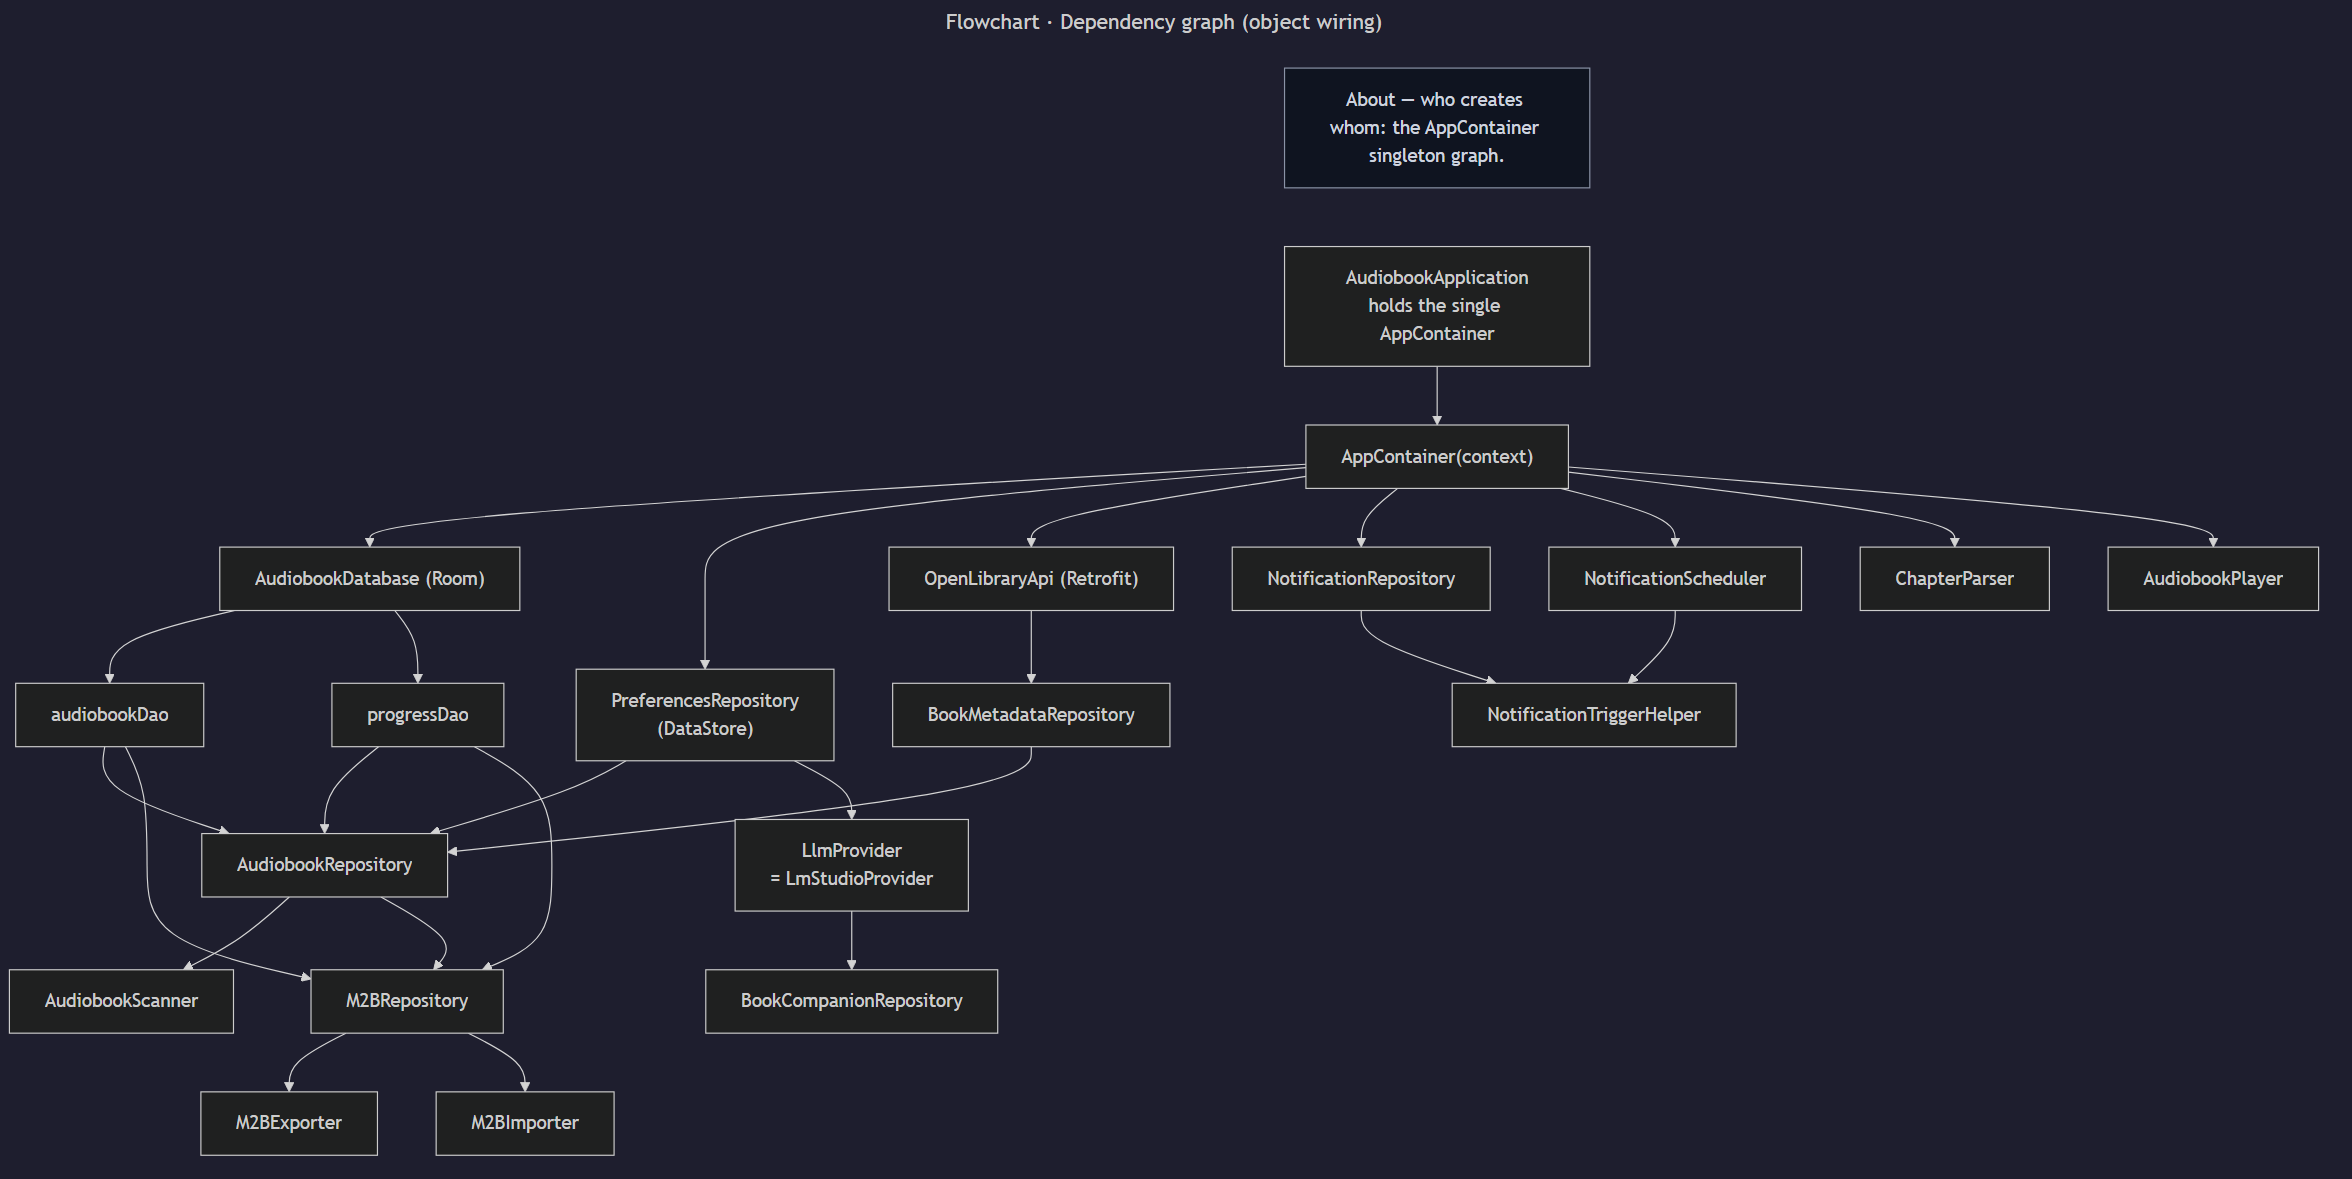
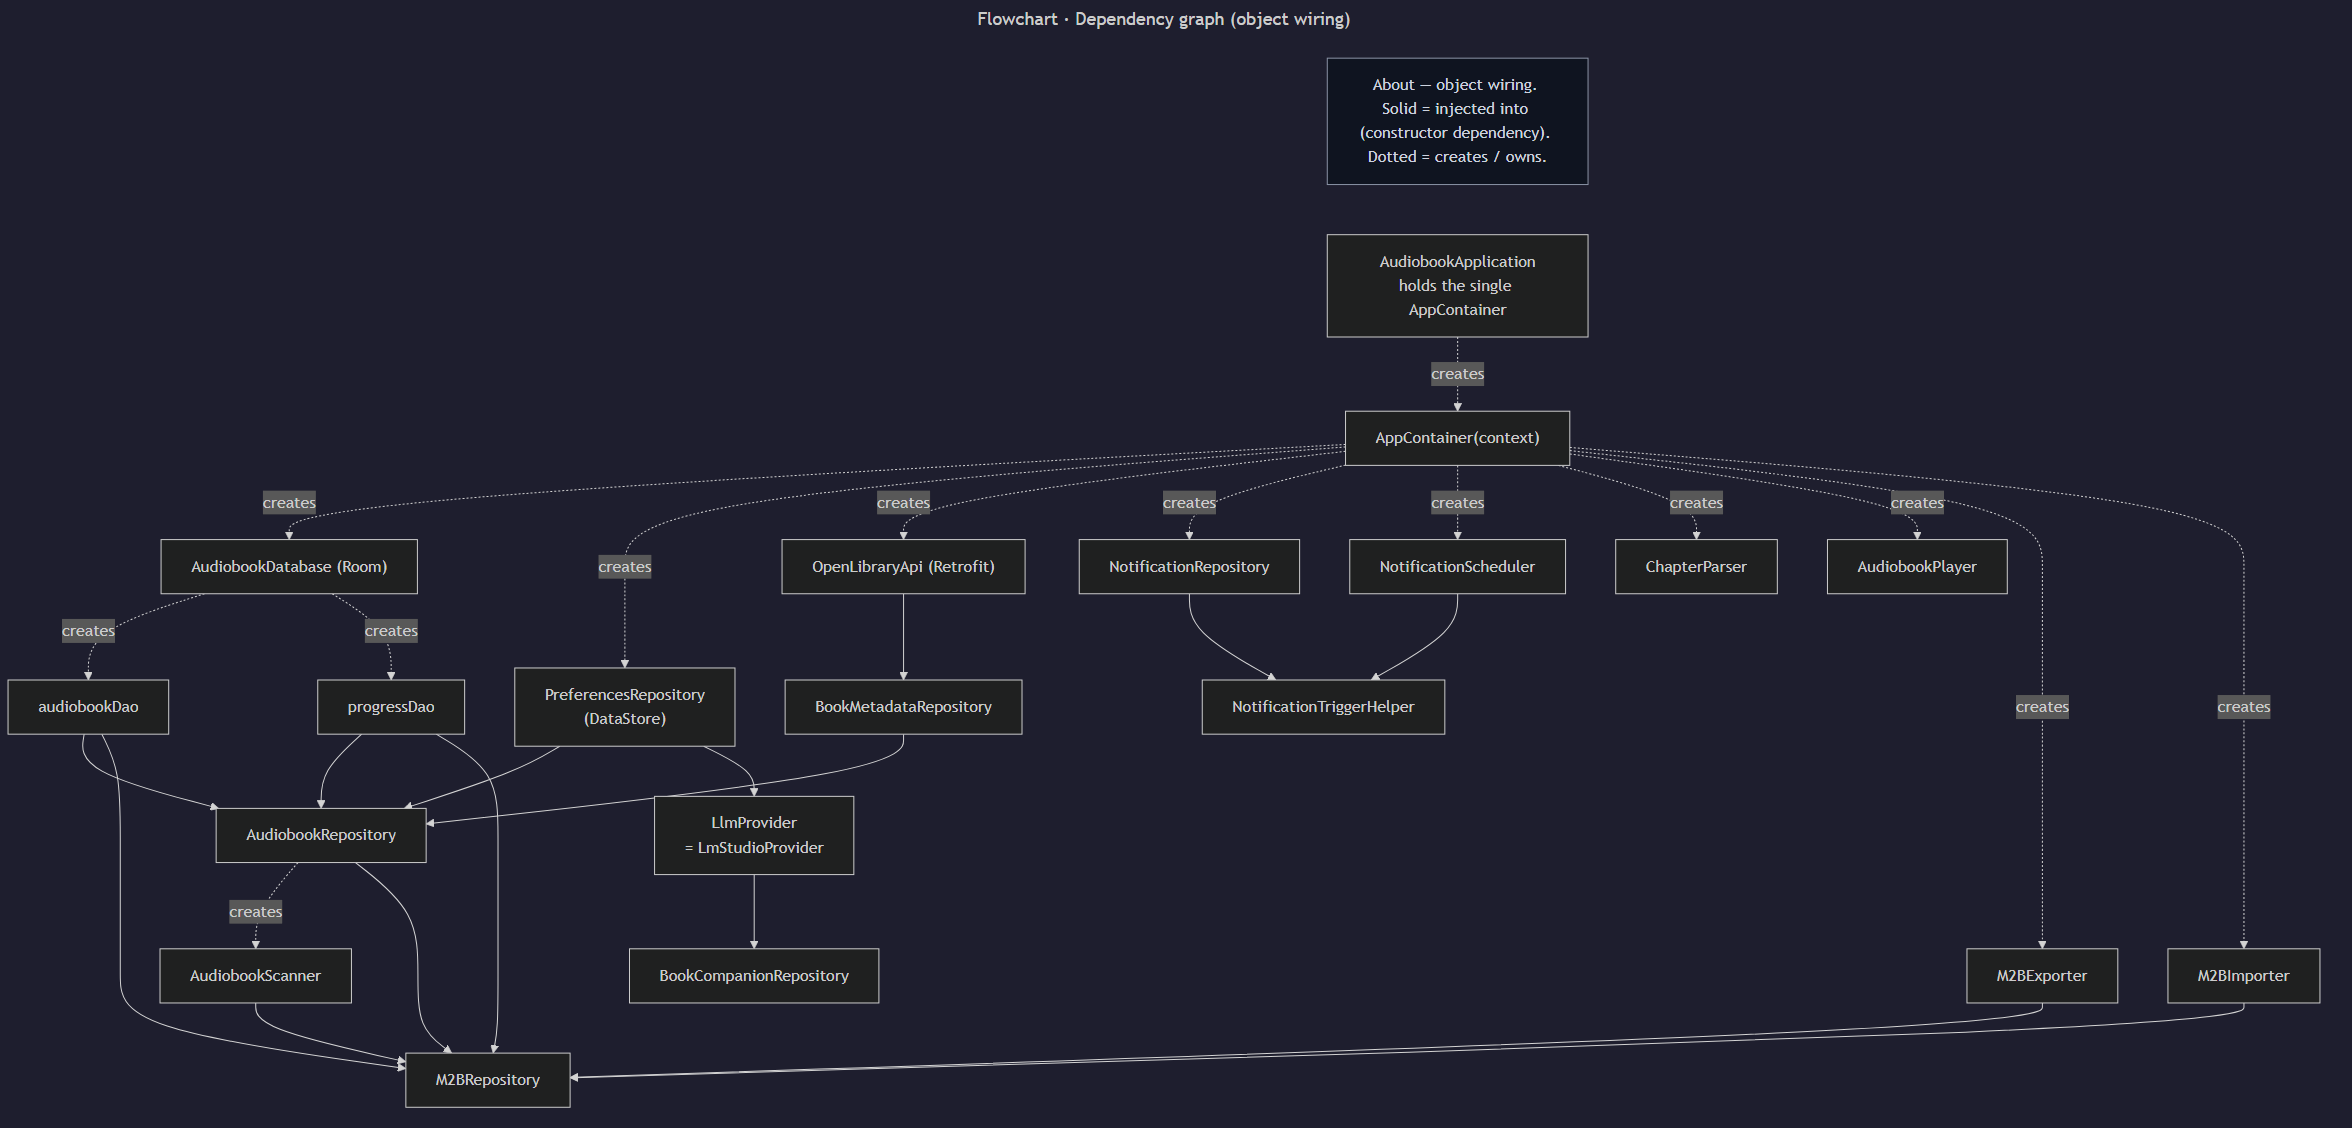
docs: fix dependency-graph arrows; add LLM processing diagram
- ARCHITECTURE.md §3: standardize arrow semantics (solid = injected into,
  dotted = creates/owns); flip the reversed M2BExporter/M2BImporter edges,
  add the Scanner -> M2BRepository edge, and add a "reading the arrows" note.
- Regenerate docs/diagrams/03-dependency-graph.png to match.
- Add docs/diagrams/10-llm-processing.png: the strict LLM processing pipeline
  (inputs -> grounding -> message assembly -> wire payload -> inference -> SSE).

diff --git a/Final Submission Project/ARCHITECTURE.md b/Final Submission Project/ARCHITECTURE.md
@@ -141,46 +141,61 @@ flowchart TB
 created **once**, the first time something asks for it. This is the hand-written version of
 what Hilt would generate (see DECISIONS #1).
 
+> **Reading the arrows.** Two relationships, two line styles:
+> **solid `A --> B`** = *A is injected into B* (A is a constructor dependency of B);
+> **dotted `A -.creates.-> B`** = *A creates / owns B*. The composition root and the Room
+> database **create** their objects; everything else is **injected**. (Note this is the
+> opposite direction from §1: that diagram shows *who calls whom* at runtime, this one shows
+> *what is plugged into what* at construction.)
+
 ```mermaid
 ---
 title: "Flowchart · Dependency graph (object wiring)"
 ---
 flowchart TD
     classDef about fill:#0f1420,stroke:#8a93a6,color:#cdd3df
-    CARD["About — who creates whom: the AppContainer singleton graph."]:::about
+    CARD["About — object wiring. Solid = injected into (constructor dependency). Dotted = creates / owns."]:::about
     CARD ~~~ App
-    App["AudiobookApplication<br/>holds the single AppContainer"] --> Container["AppContainer(context)"]
+    App["AudiobookApplication<br/>holds the single AppContainer"] -. creates .-> Container["AppContainer(context)"]
 
-    Container --> DB["AudiobookDatabase (Room)"]
-    DB --> AudioDao["audiobookDao"]
-    DB --> ProgDao["progressDao"]
+    %% Composition root creates the leaf objects and the database
+    Container -. creates .-> DB["AudiobookDatabase (Room)"]
+    Container -. creates .-> Prefs["PreferencesRepository<br/>(DataStore)"]
+    Container -. creates .-> ApiClient["OpenLibraryApi (Retrofit)"]
+    Container -. creates .-> NotifRepo["NotificationRepository"]
+    Container -. creates .-> NotifSched["NotificationScheduler"]
+    Container -. creates .-> ChapParser["ChapterParser"]
+    Container -. creates .-> AudioPlayer["AudiobookPlayer"]
+    Container -. creates .-> Exp["M2BExporter"]
+    Container -. creates .-> Imp["M2BImporter"]
 
-    Container --> Prefs["PreferencesRepository<br/>(DataStore)"]
-    Container --> ApiClient["OpenLibraryApi (Retrofit)"]
+    %% Room database exposes its DAOs
+    DB -. creates .-> AudioDao["audiobookDao"]
+    DB -. creates .-> ProgDao["progressDao"]
+
+    %% Injected dependencies (solid): A is a constructor argument of B
     ApiClient --> MetaRepo["BookMetadataRepository"]
 
     AudioDao --> AudioRepo["AudiobookRepository"]
     ProgDao --> AudioRepo
     Prefs --> AudioRepo
     MetaRepo --> AudioRepo
-    AudioRepo --> Scanner["AudiobookScanner"]
 
-    AudioRepo --> M2BRepo["M2BRepository"]
+    %% AudiobookRepository creates its own scanner; the scanner is then injected into M2BRepository
+    AudioRepo -. creates .-> Scanner["AudiobookScanner"]
+
+    Exp --> M2BRepo["M2BRepository"]
+    Imp --> M2BRepo
     AudioDao --> M2BRepo
     ProgDao --> M2BRepo
-    M2BRepo --> Exp["M2BExporter"]
-    M2BRepo --> Imp["M2BImporter"]
+    Scanner --> M2BRepo
+    AudioRepo --> M2BRepo
 
     Prefs --> LlmProv["LlmProvider<br/>= LmStudioProvider"]
     LlmProv --> CompRepo["BookCompanionRepository"]
 
-    Container --> NotifRepo["NotificationRepository"]
-    Container --> NotifSched["NotificationScheduler"]
     NotifRepo --> TrigHelper["NotificationTriggerHelper"]
     NotifSched --> TrigHelper
-
-    Container --> ChapParser["ChapterParser"]
-    Container --> AudioPlayer["AudiobookPlayer"]
 ```
 
 > Note the seam at `LlmProvider`: callers depend on the **interface**, never on